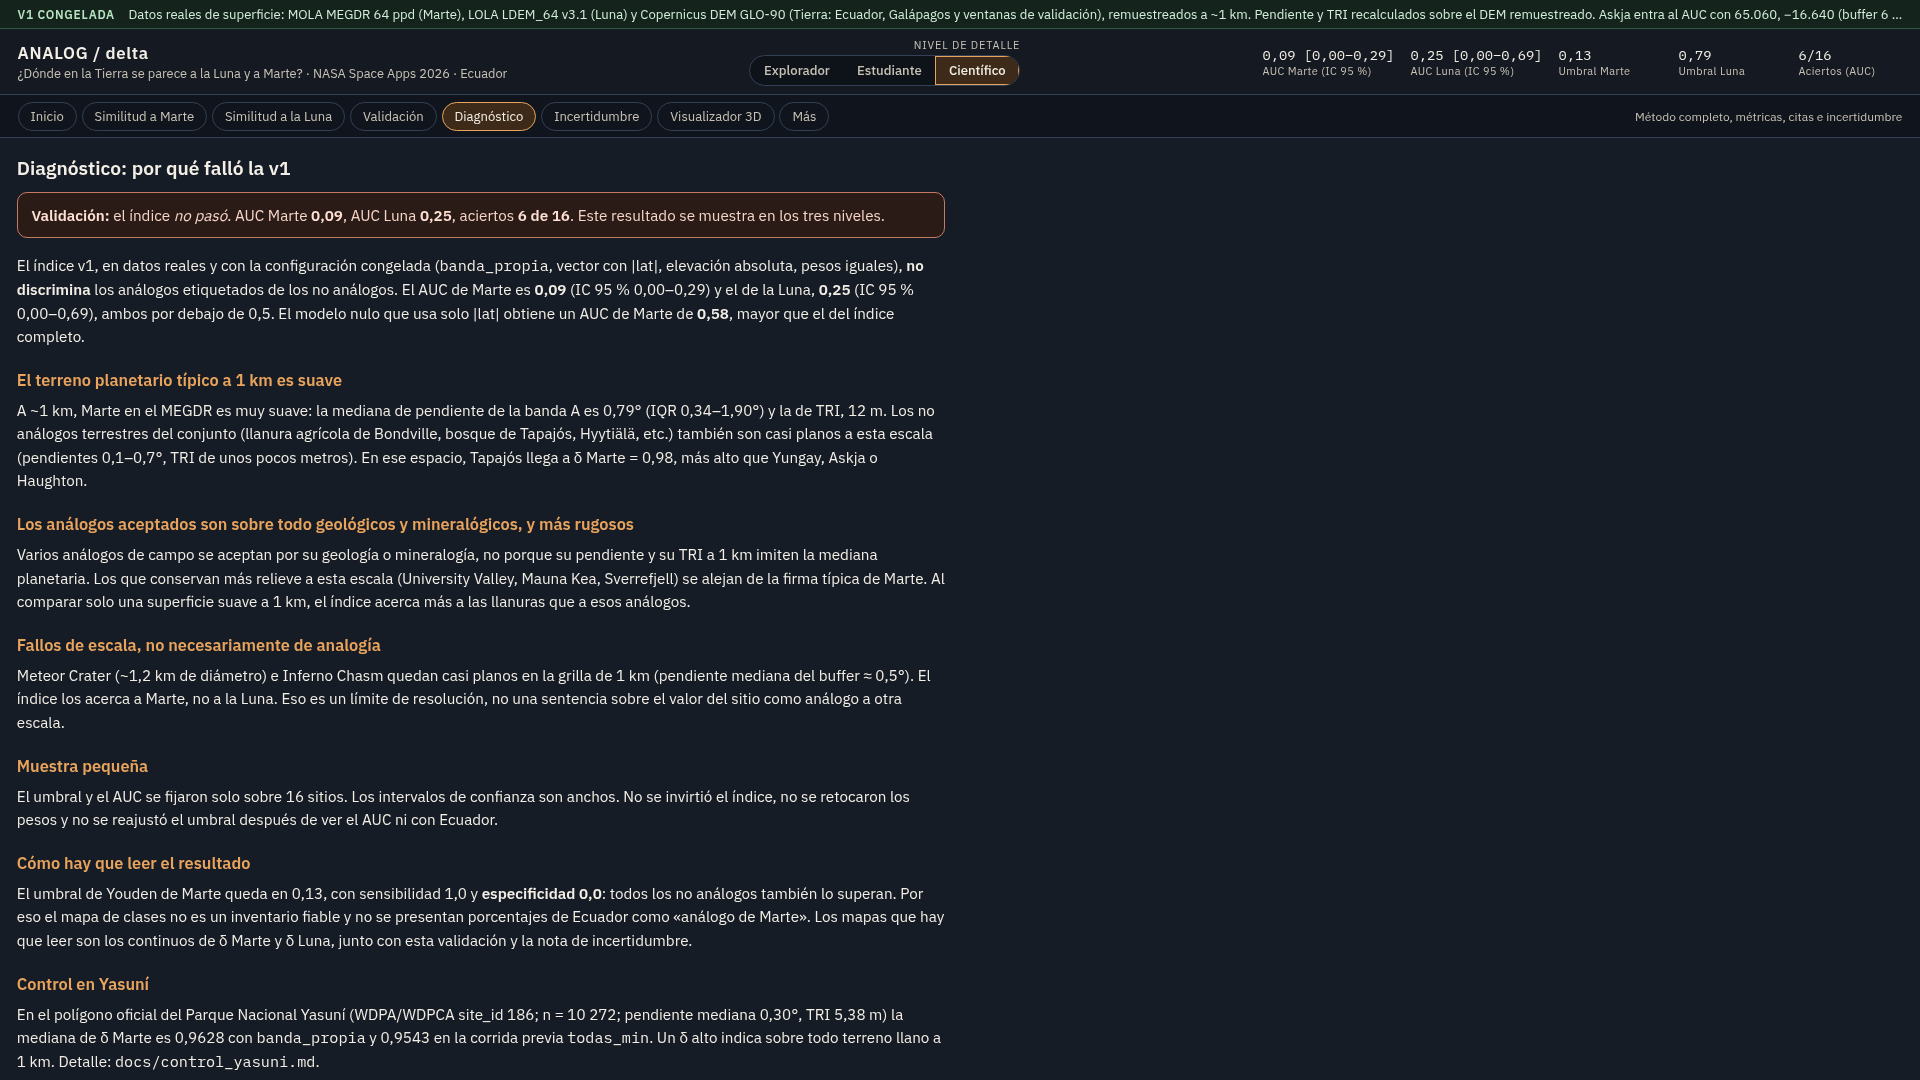
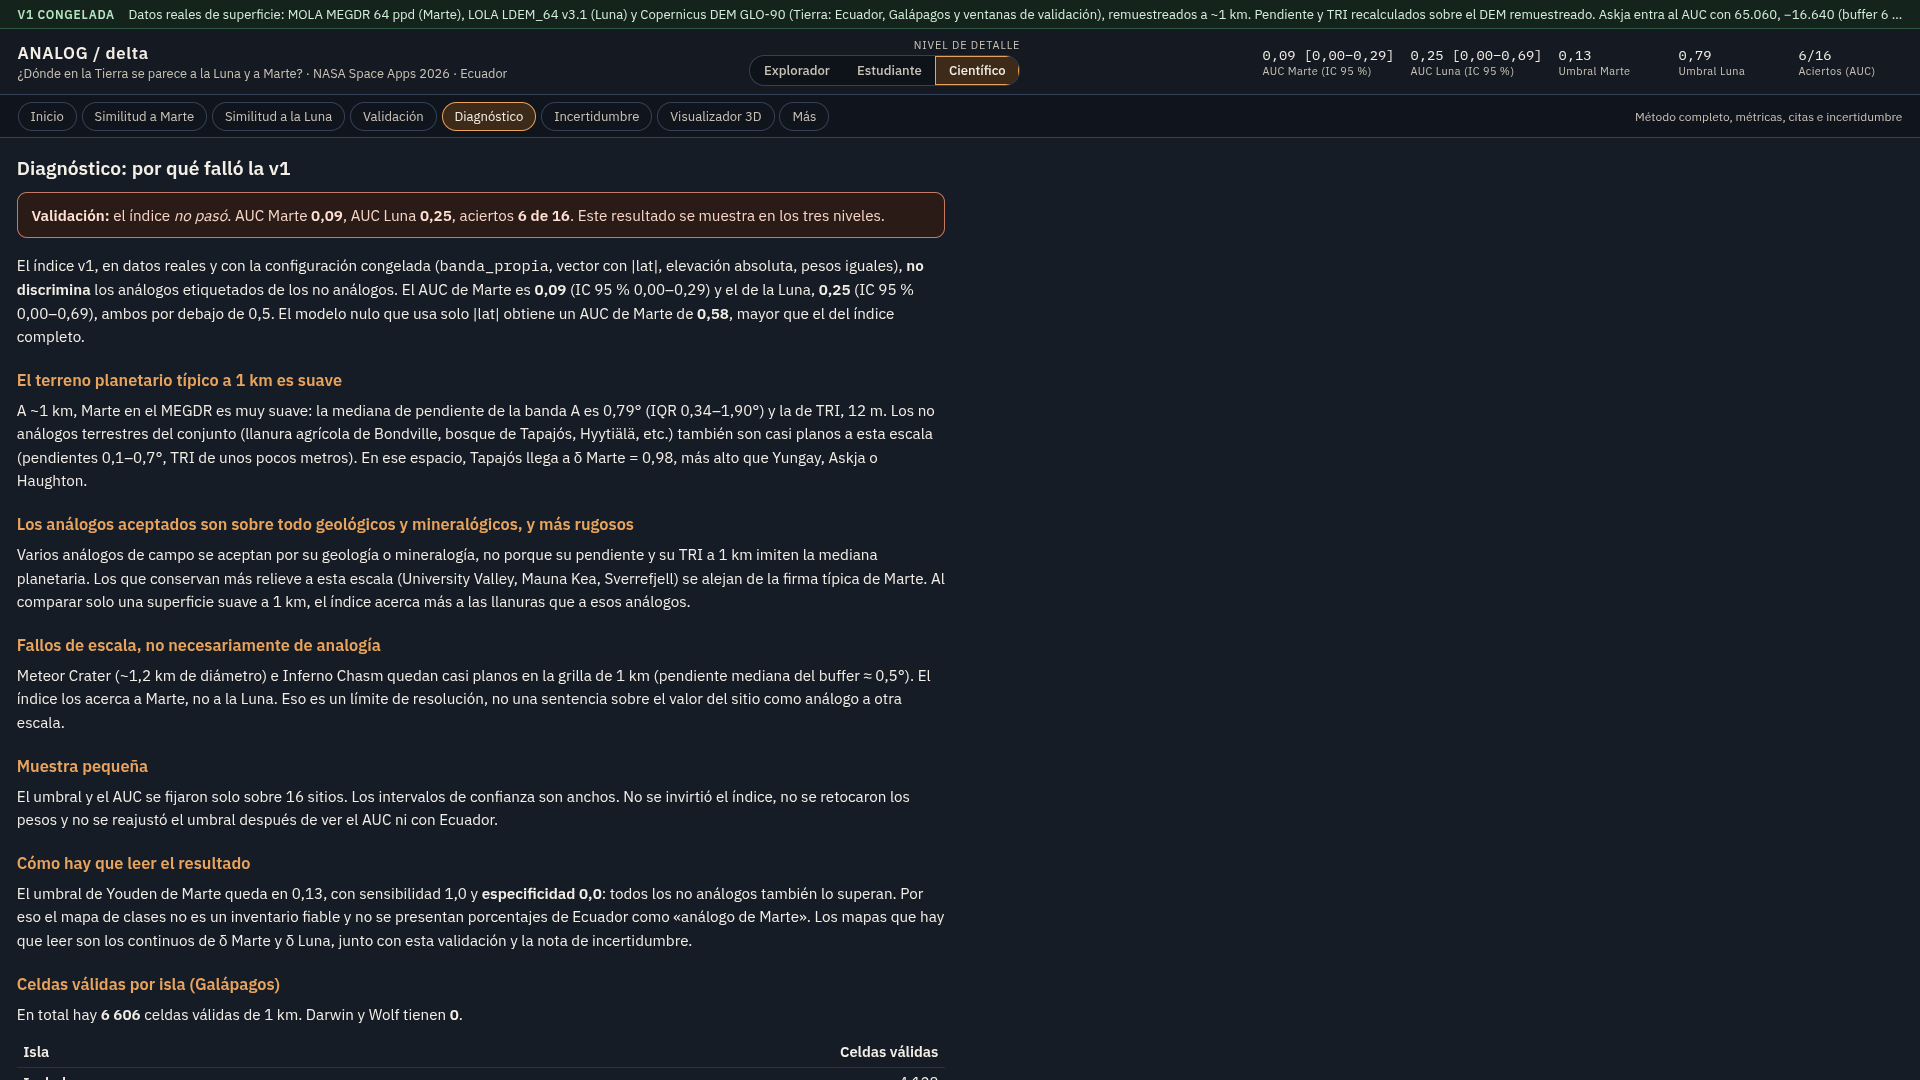
Corrige las citas de Meteor Crater (Lambert y Reimold, 2023) y del TRI (Wilson et al., 2007), añade docs/fuentes_datos_nasa.md y saca Yasuní del tablero y de la documentación visible.

Changed region(s): [[0.0, 0.8861, 0.5, 1.0]]

diff --git a/web/src/content.ts b/web/src/content.ts
@@ -394,8 +394,6 @@ export function diagnosisHTML(nivel: Nivel): string {
         "Entonces, ¿para qué sirve el mapa?",
         "Sirve para ver un retrato honesto de la superficie a 1 km, no para declarar que un porcentaje de Ecuador «es Marte». El mapa de clases no se usa como inventario, porque el corte de Marte dejó entrar a todos los no análogos.",
       )}
-      <h3>Yasuní, un control en selva plana</h3>
-      <p>En el Parque Nacional Yasuní, selva casi plana (pendiente mediana 0,3°), la similitud a Marte sale en 0,96. Un valor alto, aquí, indica sobre todo terreno llano a 1 km.</p>
       ${islasGalapagosHTML("explorador")}
     </section>`;
   }
@@ -412,8 +410,6 @@ export function diagnosisHTML(nivel: Nivel): string {
       <p>Meteor Crater (~1,2 km) e Inferno Chasm quedan casi planos en la grilla. Eso es un límite de resolución, no una sentencia sobre el sitio a otra escala.</p>
       <h3>Muestra pequeña y decisión de no retocar</h3>
       <p>n = 16, intervalos anchos. No se invirtió el índice ni se retocaron pesos o umbrales después del AUC, ni con Ecuador. El umbral de Marte (0,13) tiene ${term("especificidad")} 0: el mapa de clases no es un inventario y no se dan porcentajes de cobertura.</p>
-      <h3>Control en Yasuní</h3>
-      <p>En el polígono oficial del Parque Nacional Yasuní (n = 10 272 celdas; pendiente 0,30°) la mediana de δ Marte es 0,963 con <span class="mono">banda_propia</span> (0,954 en la corrida previa). Un δ alto indica sobre todo terreno llano a 1 km.</p>
       ${islasGalapagosHTML("estudiante")}
     </section>`;
   }
@@ -431,8 +427,6 @@ export function diagnosisHTML(nivel: Nivel): string {
     <p>El umbral y el AUC se fijaron solo sobre 16 sitios. Los intervalos de confianza son anchos. No se invirtió el índice, no se retocaron los pesos y no se reajustó el umbral después de ver el AUC ni con Ecuador.</p>
     <h3>Cómo hay que leer el resultado</h3>
     <p>El umbral de Youden de Marte queda en 0,13, con sensibilidad 1,0 y <strong>especificidad 0,0</strong>: todos los no análogos también lo superan. Por eso el mapa de clases no es un inventario fiable y no se presentan porcentajes de Ecuador como «análogo de Marte». Los mapas que hay que leer son los continuos de δ Marte y δ Luna, junto con esta validación y la nota de incertidumbre.</p>
-    <h3>Control en Yasuní</h3>
-    <p>En el polígono oficial del Parque Nacional Yasuní (WDPA/WDPCA site_id 186; n = 10 272; pendiente mediana 0,30°, TRI 5,38 m) la mediana de δ Marte es 0,9628 con <span class="mono">banda_propia</span> y 0,9543 en la corrida previa <span class="mono">todas_min</span>. Un δ alto indica sobre todo terreno llano a 1 km. Detalle: <span class="mono">docs/control_yasuni.md</span>.</p>
     ${islasGalapagosHTML("cientifico")}
   </section>`;
 }

diff --git a/docs/fuentes_datos_nasa.md b/docs/fuentes_datos_nasa.md
@@ -1,0 +1,88 @@
+# Fuentes de datos y referencias, ANALOG/δ v1
+
+Revisado el 14 de noviembre de 2026, 19:45–19:49 (hora de Ecuador, UTC−5). Cada enlace se probó con `curl -L` desde el servidor de trabajo. El estado es el código HTTP final después de las redirecciones.
+
+- **403**: el sitio bloquea clientes automáticos. No se pudo verificar así, pero el enlace es el oficial y casi seguro funciona en un navegador. Los DOI con 403 se confirmaron por metadatos en Crossref o DataCite.
+- **500**: la editorial falló con el cliente automático. El DOI existe en Crossref o DataCite.
+- **206**: respuesta parcial a una petición por rango. Equivale a 200.
+
+Esta revisión no cambia el DEM, el índice ni Supabase. Ronald pidió esperar su modelo antes de tocar datos.
+
+## 1. Datos que entran al índice v1 (y la sustitución propuesta)
+
+| Dataset | Institución | NASA | URL de ficha | URL de descarga | DOI | HTTP | Uso en el proyecto |
+|---|---|---|---|---|---|---|---|
+| MOLA MEGDR 64 ppd (teselas `megt*gb`) | NASA PDS Geosciences Node (Mars Global Surveyor) | Sí | https://pds-geosciences.wustl.edu/missions/mgs/megdr.html | https://pds-geosciences.wustl.edu/mgs/mgs-m-mola-5-megdr-l3-v1/mgsl_300x/meg064/ (ej. `megt00n000gb.img` y `.lbl`) | No tiene; se cita por el volumen PDS `MGS-M-MOLA-5-MEGDR-L3-V1.0` | 200 / 200 / 200 | Marte: elevación, pendiente Horn, TRI, firmas por banda A–G, δ Marte, hillshade de Marte |
+| LOLA LDEM_64 (v3.1 según la v1 congelada) | NASA PDS Geosciences Node (Lunar Reconnaissance Orbiter) | Sí | https://pds-geosciences.wustl.edu/missions/lro/lola.htm | https://pds-geosciences.wustl.edu/lro/lro-l-lola-3-rdr-v1/lrolol_1xxx/data/lola_gdr/cylindrical/img/ldem_64.img (y `ldem_64.lbl`) | No tiene; volumen PDS `LRO-L-LOLA-3-RDR-V1.0` | 200 / 200 / 200 | Luna: elevación, pendiente, TRI, firmas por banda, δ Luna, hillshade lunar |
+| Copernicus DEM GLO-90 | ESA / Programa Copernicus (UE), con datos de Airbus | **No** | https://dataspace.copernicus.eu/explore-data/data-collections/copernicus-contributing-missions/collections-description/COP-DEM | https://copernicus-dem-90m.s3.amazonaws.com/tileList.txt y `…/{TILE}/{TILE}.tif` | 10.5270/ESA-c5d3d65 | 200 / 200 | **Lo que usa hoy la Tierra**: elevación, pendiente y TRI de Ecuador, Galápagos y las ventanas de validación; máscara de agua (0 m exacto); hillshade de Ecuador |
+| **NASADEM_HGT v001**, la sustitución propuesta | NASA JPL / LP DAAC (Earthdata) | Sí | https://www.earthdata.nasa.gov/data/catalog/lpcloud-nasadem-hgt-001 (lpdaac.usgs.gov/products/nasadem_hgtv001/ redirige aquí) | Búsqueda: https://search.earthdata.nasa.gov/search/granules?p=C2763264762-LPCLOUD · Tesela de ejemplo: https://data.lpdaac.earthdatacloud.nasa.gov/lp-prod-protected/NASADEM_HGT.001/NASADEM_HGT_s01w080/NASADEM_HGT_s01w080.zip (pide inicio de sesión gratuito en Earthdata) · Guía: https://lpdaac.usgs.gov/documents/2237/NASADEM_User_Guide_V13.pdf | 10.5067/MEaSUREs/NASADEM/NASADEM_HGT.001 | 200 / 200 / 200 (redirige al login de Earthdata) / 200 | Reemplazaría a GLO-90 en la Tierra. 1 arcsec, geoide **EGM96** (no EGM2008). La capa `swb` (0 = tierra, 255 = agua) sirve como máscara de agua oficial |
+
+## 2. Capas de contexto, polígonos y visualización
+
+| Dataset | Institución | NASA | URL de ficha | URL de descarga | DOI | HTTP | Uso en el proyecto |
+|---|---|---|---|---|---|---|---|
+| Regiones candidatas Artemis III (McClernan, 2024), "Down Selected Artemis III Candidate Landing Site Navigational Grids" | USGS (gobierno de EE. UU., no es NASA) | **No** (pero el origen es NASA, ver nota) | https://doi.org/10.5066/P1MEQ6UK → https://www.sciencebase.gov/catalog/item/671a6fa8d34efed5620f89f8 | En la misma ficha de ScienceBase | 10.5066/P1MEQ6UK | 403 / 403 (DOI confirmado en DataCite) | Contexto de sitios lunares y archivo v1.1. **La v1 congelada no usa estos polígonos** |
+| Anuncio NASA de las 9 regiones Artemis III (comunicado 24-136, 28 oct 2024) | NASA HQ | Sí | https://www.nasa.gov/news-release/nasa-provides-update-on-artemis-iii-moon-landing-regions/ | No tiene (comunicado con mapa) | No tiene | 200 | Fuente primaria de las regiones |
+| LROC QuickMap | LROC / ASU, misión LRO de NASA | Sí (misión NASA, operada por ASU) | https://quickmap.lroc.asu.edu/ (redirige a quickmap.lroc.im-ldi.com) | Herramienta interactiva | No tiene | 206 | Según el metadato USGS, de aquí salen los polígonos de las regiones |
+| GADM 4.1, Ecuador (provincia Galápagos) | GADM / Universidad de California, Davis | **No** | https://gadm.org/ | https://geodata.ucdavis.edu/gadm/gadm4.1/shp/gadm41_ECU_shp.zip | No tiene | 200 / 200 | Polígonos por isla para contar celdas en Galápagos (`docs/galapagos_celdas_por_isla.md`) |
+| Natural Earth (110m land y SR_50M) | Natural Earth (NACIS), dominio público | **No** | https://www.naturalearthdata.com/ | Desde la misma web | No tiene | 200 | Contorno de tierra y hillshade del globo terrestre en el dashboard (`web/public/basemap/`) |
+
+## 3. Métodos
+
+| Referencia | Editorial | NASA | URL | DOI | HTTP | Uso |
+|---|---|---|---|---|---|---|
+| Horn, B. K. P. (1981). Hill shading and the reflectance map. *Proceedings of the IEEE* 69(1) | IEEE | No (es un método, no un dato) | https://doi.org/10.1109/PROC.1981.11918 | 10.1109/PROC.1981.11918 | 500 en IEEE; confirmado en Crossref | Pendiente Horn 3×3 y hillshade |
+| Wilson, M. F. J. et al. (2007). Multiscale Terrain Analysis of Multibeam Bathymetry Data for Habitat Mapping on the Continental Slope. *Marine Geodesy* 30 | Taylor & Francis | No (método) | https://doi.org/10.1080/01490410701295962 | 10.1080/01490410701295962 | 500 en T&F; confirmado en Crossref | **El TRI del código es el de Wilson 2007**: media de las diferencias absolutas con los 8 vecinos (`pipeline_real/write_docs.py`) |
+| Riley, S. J. et al. (1999). A terrain ruggedness index… *Intermountain Journal of Sciences* 5 | Intermountain Journal of Sciences | No | No encontré una URL oficial verificable | No tiene DOI | — | **No se usa en v1.** La atribución que había en el mock visible se corrigió a Wilson 2007 |
+
+## 4. Fuentes de los sitios de validación
+
+Son artículos y fichas de sitio que justifican la etiqueta de cada sitio. **No entran como datos.** Los valores de cada sitio salen del DEM terrestre. No son de la NASA y no hace falta sustituirlos por NASA; lo que se exige es que la cita sea correcta.
+
+| Sitio | Referencia | DOI / URL | HTTP | En el AUC |
+|---|---|---|---|---|
+| Yungay (Atacama) | Navarro-González et al. 2003, *Science* | 10.1126/science.1089143 | 403 (Crossref OK) | Sí |
+| Yungay | Ewing et al. 2006, *GCA* | 10.1016/j.gca.2006.08.020 | 200 | Sí |
+| Haughton | Osinski et al. 2005, *MAPS* | 10.1111/j.1945-5100.2005.tb00145.x | 403 (Crossref OK) | Sí |
+| University Valley | Heldmann et al. 2013, *PSS* | 10.1016/j.pss.2013.05.019 | 200 | Sí |
+| University Valley | Lapalme et al., *Antarctic Science* (Crossref: 2016 en línea; el repo dice 2017a) | 10.1017/s0954102016000572 | 200 | Sí |
+| Askja / Vikrahraun | Blasizzo et al. 2022, *EPS* | 10.1186/s40623-022-01711-5 | 200 | Sí |
+| Mauna Kea | Guinness et al. 2007, *JGR Planets* | 10.1029/2006je002822 | 403 (Crossref OK) | Sí |
+| Mauna Kea | ten Kate et al. 2013, *J. Aerospace Eng.* | 10.1061/(asce)as.1943-5525.0000200 | 403 (Crossref OK) | Sí |
+| Mauna Kea | Graham et al. 2015, *Adv. Space Res.* | 10.1016/j.asr.2015.01.024 | 200 | Sí |
+| Sverrefjell | Treiman et al. 2002, *EPSL* | 10.1016/s0012-821x(02)00998-6 | 200 | Sí |
+| Timanfaya | Martínez-Frías et al. 2017, *Episodes* | 10.18814/epiiugs/2017/v40i4/017035 | 500 (Crossref OK) | Sí |
+| Timanfaya | Alberquilla et al. 2022, *Sci. Rep.* | 10.1038/s41598-022-20960-8 | 200 | Sí |
+| Timanfaya | Ficha MITECO | https://www.miteco.gob.es/es/parques-nacionales-oapn/red-parques-nacionales/parques-nacionales/timanfaya/ficha-tecnica.html | 200 (README) | Sí |
+| Meteor Crater | Lambert y Reimold (2023), *Front. Astron. Space Sci.* (corregido; el DOI no cambia) | 10.3389/fspas.2023.1186173 | 206 | Sí |
+| S P Mountain | Gullikson y Rumpf 2021, USGS OFR 2021-1072 | https://pubs.usgs.gov/of/2021/1072/ofr20211072.pdf | 206 | Sí |
+| Inferno Chasm | Greeley 1971, *Science* (Garry et al. 2015, LPSC 46 #1009, sin URL en el repo) | 10.1126/science.172.3984.722 | 403 (Crossref OK) | Sí |
+| Tapajós BR-Sa1 | AmeriFlux | https://ameriflux.lbl.gov/sites/siteinfo/BR-Sa1 | 206 | Sí |
+| Bondville US-Bo1 | AmeriFlux | 10.17190/AMF/1246036 | 206 | Sí |
+| Harvard Forest US-Ha1 | AmeriFlux | 10.17190/AMF/1246059 | 206 | Sí |
+| Tumbarumba AU-Tum | FLUXNET2015 | 10.18140/FLX/1440126 | 500 (DataCite OK) | Sí |
+| Hainich DE-Hai | FLUXNET2015 | 10.18140/FLX/1440148 | 500 (DataCite OK) | Sí |
+| Hyytiälä FI-Hyy | FLUXNET2015 | 10.18140/FLX/1440158 | 500 (DataCite OK) | Sí |
+| Río Tinto | Amils et al. 2014, *Life* | 10.3390/life4030511 | 403 (Crossref OK) | No |
+| Río Tinto | Fernández-Remolar et al. 2005, *EPSL* | 10.1016/j.epsl.2005.09.043 | 200 | No |
+| Ries | Stöffler et al. 2013, *MAPS* | 10.1111/maps.12086 | 403 (Crossref OK) | No |
+| Sudbury | Lowman 1992, *Rev. Geophys.* | 10.1029/92rg00755 | 403 (Crossref OK) | No |
+
+## 5. Lo que todavía no es NASA y sus alternativas
+
+| Elemento no NASA | Alternativa NASA | Verificado |
+|---|---|---|
+| Copernicus GLO-90 (Tierra: elevación, pendiente, TRI) | **NASADEM_HGT v001**, DOI 10.5067/MEaSUREs/NASADEM/NASADEM_HGT.001 | Sí, 200. Cambia el geoide (EGM96 en lugar de EGM2008) y hay que recalcular. Queda pendiente del modelo de Ronald |
+| Máscara de agua de Galápagos (0 m exacto de GLO-90) | Capa `swb` de NASADEM. Otra opción: MODIS MOD44W v061 (https://www.earthdata.nasa.gov/data/catalog/lpcloud-mod44w-061, DOI 10.5067/MODIS/MOD44W.061) o SRTMSWBD v003 (https://www.earthdata.nasa.gov/data/catalog/lpcloud-srtmswbd-003, DOI 10.5067/MEaSUREs/SRTM/SRTMSWBD.003) | Sí, todas 200 |
+| Hillshade de Ecuador (de GLO-90) | Recalcularlo desde NASADEM | — |
+| Natural Earth (contorno y relieve del globo) | Relieve: NASA Blue Marble (https://science.nasa.gov/earth/earth-observatory/collections/blue-marble/, 200) o un hillshade de NASADEM. Contorno: derivarlo de MOD44W. No hay un "contorno de continentes" NASA listo para usar | Sí |
+| GADM (polígonos de las islas de Galápagos) | **No hay un equivalente NASA directo** con nombres de islas. Se pueden sacar los contornos de tierra con NASADEM `swb` o MOD44W, pero los nombres habría que asignarlos a mano | — |
+| Regiones Artemis USGS (McClernan 2024) | La fuente primaria es la NASA: comunicado 24-136 (200). Según el metadato USGS, los polígonos salen de LROC QuickMap (misión LRO de NASA). La NASA no publica un shapefile propio. La v1 no los usa | Sí |
+| Citas de sitios (revistas, AmeriFlux/FLUXNET del DOE, MITECO, USGS) | No aplica: son literatura, no datos | — |
+
+## 6. Correcciones de cita (hechas el 14 de noviembre de 2026)
+
+1. Meteor Crater: la cita "Osinski et al. (2023)" con DOI 10.3389/fspas.2023.1186173 se sustituyó por Lambert y Reimold (2023), *Front. Astron. Space Sci.* El DOI se mantiene.
+2. TRI: donde se atribuía a Riley et al. 1999, ahora se cita Wilson, M. F. J. et al. (2007), *Marine Geodesy* 30, DOI 10.1080/01490410701295962. Es la definición que usa el código: media de las diferencias absolutas con los 8 vecinos (`pipeline_real/terrain.py`, `slope_and_tri`).
+3. Las regiones Artemis USGS figuran como dato, pero la v1 congelada no las usa.
+4. El README (sección inglesa) dice "real MOLA, LOLA and GLO-90 data". Si se cambia a NASADEM, hay que actualizarlo junto con `docs/galapagos_mascara_agua.md`, que hoy dice que no se mezcla NASADEM.

diff --git a/README.md b/README.md
@@ -134,7 +134,7 @@ No son cifras copiadas. En la Luna, la banda propia ya era la ganadora en los 16
 
 Umbral oficial de Marte: 0,13 (sensibilidad 1,00, especificidad **0,00**: está degenerado; marca todo como parecido). Umbral de la Luna: 0,79 (sensibilidad 0,20, especificidad 1,00). El modelo nulo que usa solo |lat| obtiene un AUC de Marte de **0,58**, mayor que el del índice completo.
 
-**Diagnóstico:** a ~1 km el terreno planetario típico es suave (mediana de pendiente de la banda A en MOLA ≈ 0,79°). Varios no análogos terrestres también son casi planos a esa escala, y el índice los acerca más a Marte que a análogos clásicos más rugosos. El control de Yasuní (Parque Nacional, Amazonía ecuatoriana; polígono oficial WDPA, 10 272 celdas) lo muestra: pendiente mediana 0,3° y δ Marte 0,96 en `banda_propia`. Un valor alto refleja sobre todo terreno llano. Meteor Crater e Inferno Chasm fallan por **escala** (quedan planos en la grilla de 1 km). La muestra del AUC es pequeña (16 sitios).
+**Diagnóstico:** a ~1 km el terreno planetario típico es suave (mediana de pendiente de la banda A en MOLA ≈ 0,79°). Varios no análogos terrestres también son casi planos a esa escala, y el índice los acerca más a Marte que a análogos clásicos más rugosos. Un valor alto refleja sobre todo terreno llano. Meteor Crater e Inferno Chasm fallan por **escala** (quedan planos en la grilla de 1 km). La muestra del AUC es pequeña (16 sitios).
 
 Los mapas que hay que leer son los continuos de **δ Marte** y **δ Luna**. El mapa de clases es secundario: el umbral de Marte no tiene poder de discriminación (especificidad 0). **No se presentan porcentajes de cobertura de Ecuador como «análogo».**
 

diff --git a/docs/diagnostico_v1.md b/docs/diagnostico_v1.md
@@ -15,9 +15,6 @@ El índice v1, con datos reales, **no separa** bien los análogos etiquetados de
 
 A ~1 km, Marte en el MEGDR es muy suave: pendiente mediana de la banda A 0,79° (IQR 0,34–1,90°) y TRI 12 m. Los no análogos casi planos (Bondville, Tapajós, Hyytiälä) quedan cerca de esa firma. Tapajós da δ Marte 0,9778 (`todas_min`) y 0,9819 (`banda_propia`). Análogos con más relieve a esta escala (University Valley, Mauna Kea, Sverrefjell) se alejan. Meteor Crater e Inferno Chasm quedan casi planos en la grilla de 1 km.
 
-## Control en Yasuní
-
-En el polígono oficial del Parque Nacional Yasuní (n = 10 272 celdas, 0 % nodata; pendiente mediana 0,30°, TRI 5,38 m) la mediana de δ Marte es 0,954 (`todas_min`) y 0,963 (`banda_propia`). Un valor alto indica sobre todo terreno llano a 1 km. Detalle y fuente del polígono: `docs/control_yasuni.md`.
 
 ## Galápagos
 
